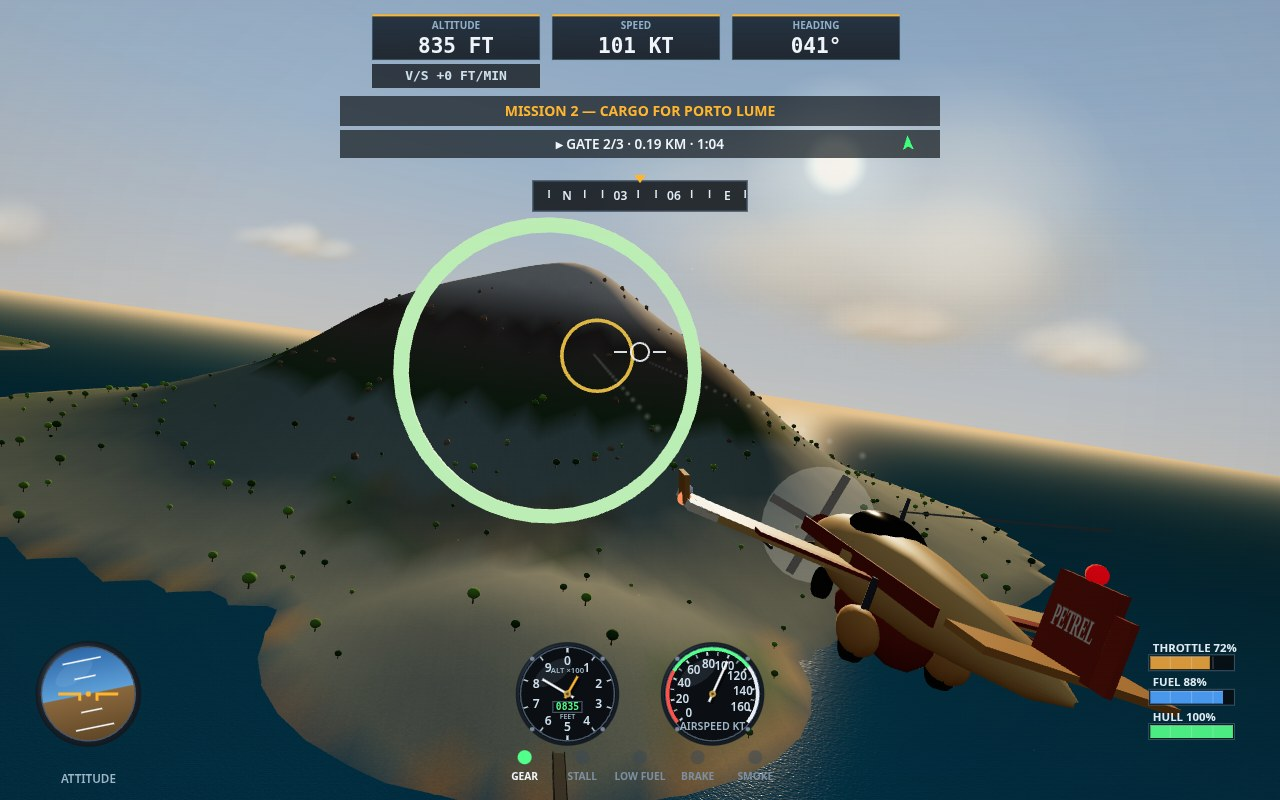
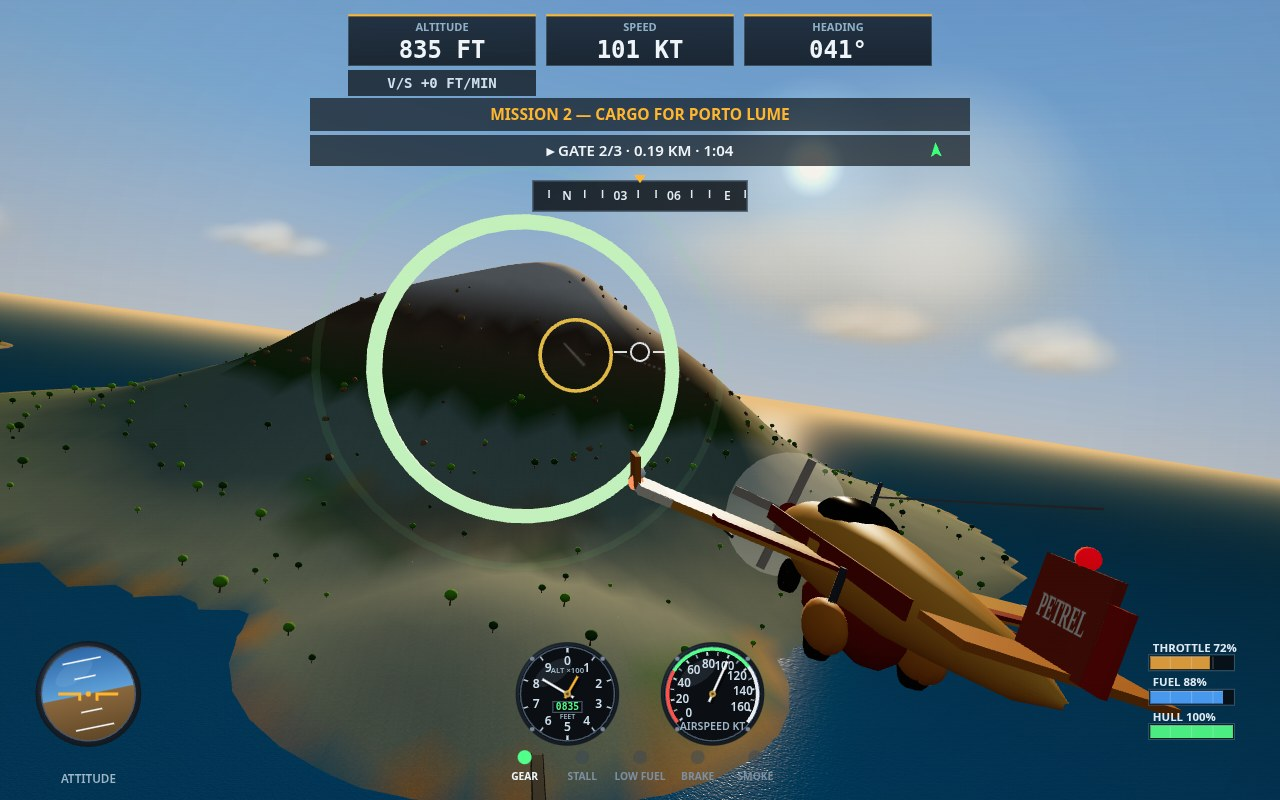
v17 thumbnail pass: win the contact sheet at 300px — a saturated grade across the whole palette (deeper sky blues, teal sea, stronger greens, warmer sand; Petrel paint deepened to a richer orange with a hotter tail; exposure 1.10 -> 1.16), cameras moved in close on the scenic route (cover re-posed o

diff --git a/game/src/hud.js b/game/src/hud.js
@@ -29,40 +29,47 @@ export function drawGradeVignette(ctx, width, height) {
   ctx.fillRect(0, 0, width, height);
 }
 
+// v17: the top readout cluster is scaled up a modest step (chips
+// 168x46 -> 188x52, value figures 21px -> 24px) so the numbers
+// carry further down the contact sheet's shrink — kept narrow
+// enough that the cluster still floats over sky, not world.
+const CHIP_W = 188;
+const CHIP_H = 52;
+
 export function drawHudDigits(ctx, plane, width, height) {
   const feet = Math.max(0, Math.round(plane.y * 3.281));
   const knots = Math.round(plane.speed * 1.944);
   const hdg = Math.round(headingDegrees(plane));
-  chip(ctx, width * 0.5 - 268, 14, 'ALTITUDE', `${feet} FT`);
-  chip(ctx, width * 0.5 - 88, 14, 'SPEED', `${knots} KT`);
-  chip(ctx, width * 0.5 + 92, 14, 'HEADING', `${String(hdg).padStart(3, '0')}°`);
+  chip(ctx, width * 0.5 - 292, 14, 'ALTITUDE', `${feet} FT`);
+  chip(ctx, width * 0.5 - 94, 14, 'SPEED', `${knots} KT`);
+  chip(ctx, width * 0.5 + 104, 14, 'HEADING', `${String(hdg).padStart(3, '0')}°`);
   const vs = Math.round(plane.vertical * 196.85);
   ctx.fillStyle = 'rgba(8,12,17,0.72)';
-  ctx.fillRect(width * 0.5 - 268, 64, 168, 24);
+  ctx.fillRect(width * 0.5 - 292, 70, CHIP_W, 26);
   ctx.fillStyle = vs < -700 ? PALETTE.lampRed : '#cfe0ec';
-  ctx.font = '700 13px ui-monospace, monospace';
+  ctx.font = '700 14px ui-monospace, monospace';
   ctx.textAlign = 'center';
-  ctx.fillText(`V/S ${vs >= 0 ? '+' : ''}${vs} FT/MIN`, width * 0.5 - 184, 80);
+  ctx.fillText(`V/S ${vs >= 0 ? '+' : ''}${vs} FT/MIN`, width * 0.5 - 198, 88);
 }
 
 function chip(ctx, x, y, label, value) {
-  const grad = ctx.createLinearGradient(x, y, x, y + 46);
+  const grad = ctx.createLinearGradient(x, y, x, y + CHIP_H);
   grad.addColorStop(0, 'rgba(24,36,50,0.88)');
   grad.addColorStop(1, 'rgba(8,12,17,0.82)');
   ctx.fillStyle = grad;
-  ctx.fillRect(x, y, 168, 46);
+  ctx.fillRect(x, y, CHIP_W, CHIP_H);
   ctx.fillStyle = PALETTE.lampAmber;
-  ctx.fillRect(x, y, 168, 2.4);
+  ctx.fillRect(x, y, CHIP_W, 2.4);
   ctx.strokeStyle = 'rgba(120,160,190,0.55)';
   ctx.lineWidth = 1.2;
-  ctx.strokeRect(x, y, 168, 46);
+  ctx.strokeRect(x, y, CHIP_W, CHIP_H);
   ctx.fillStyle = '#8fb0c6';
-  ctx.font = '700 10px system-ui, sans-serif';
+  ctx.font = '700 11px system-ui, sans-serif';
   ctx.textAlign = 'center';
-  ctx.fillText(label, x + 84, y + 15);
+  ctx.fillText(label, x + CHIP_W / 2, y + 17);
   ctx.fillStyle = PALETTE.ink;
-  ctx.font = '700 21px ui-monospace, monospace';
-  ctx.fillText(value, x + 84, y + 39);
+  ctx.font = '700 24px ui-monospace, monospace';
+  ctx.fillText(value, x + CHIP_W / 2, y + 44);
 }
 
 // Ease-out cubic for entrances: fast arrival, gentle landing.
@@ -86,22 +93,22 @@ export function drawMissionBanner(ctx, state, plane, width, entrance = 1) {
   ctx.globalAlpha = e;
   ctx.translate(0, (1 - e) * -16);
   ctx.fillStyle = 'rgba(8,12,17,0.66)';
-  ctx.fillRect(width * 0.5 - 300, 96, 600, 30);
+  ctx.fillRect(width * 0.5 - 330, 98, 660, 33);
   ctx.fillStyle = PALETTE.lampAmber;
-  ctx.font = '700 14px system-ui, sans-serif';
+  ctx.font = '700 15.5px system-ui, sans-serif';
   ctx.textAlign = 'center';
-  ctx.fillText(m.title, width * 0.5, 116);
+  ctx.fillText(m.title, width * 0.5, 120);
   const cue = objectiveCue(state, plane);
   const mins = Math.floor(state.elapsed / 60);
   const secs = String(Math.floor(state.elapsed % 60)).padStart(2, '0');
   ctx.fillStyle = 'rgba(8,12,17,0.66)';
-  ctx.fillRect(width * 0.5 - 300, 130, 600, 28);
+  ctx.fillRect(width * 0.5 - 330, 135, 660, 31);
   ctx.fillStyle = '#eef4f8';
-  ctx.font = '600 13.5px system-ui, sans-serif';
-  ctx.fillText(`▸ ${cue.label} · ${(cue.dist / 1000).toFixed(2)} KM · ${mins}:${secs}`, width * 0.5, 149);
-  const ax = width * 0.5 + 268;
+  ctx.font = '600 15px system-ui, sans-serif';
+  ctx.fillText(`▸ ${cue.label} · ${(cue.dist / 1000).toFixed(2)} KM · ${mins}:${secs}`, width * 0.5, 156);
+  const ax = width * 0.5 + 296;
   ctx.save();
-  ctx.translate(ax, 144);
+  ctx.translate(ax, 151);
   ctx.rotate((cue.turn * Math.PI) / 180);
   ctx.fillStyle = PALETTE.ringNext;
   ctx.beginPath();

diff --git a/game/src/shots.js b/game/src/shots.js
@@ -19,6 +19,12 @@ export const SHOT_NAMES = ['cover', 'approach', 'cargo', 'finale'];
 //     the Meridian Field valley on short final (FINALE).
 // Every pose sits on its mission's real line, so the banner, the
 // cue and the dials all read true from the pose itself.
+//
+// The v17 thumbnail pass re-stations the cameras on that route:
+// the judge only ever sees these frames small, so the Petrel is
+// framed big (a third to a half of the picture), the horizon
+// rides high, and the cover flies the last stretch to its gate
+// so the hoop itself becomes the poster's frame.
 
 const SCENIC = {
   cargoGate: 1, // mission-1 ring the cargo station flies at
@@ -27,9 +33,12 @@ const SCENIC = {
 export function applyShotScene(game, name) {
   game.shotCam = null;
   game.juiceSeed = null;
-  const QUARTER = { side: 6.5, up: 2.4, aim: 42, back: 17, aimSide: -10 };
-  const QUARTER_PORT = { side: -6.5, up: 3.3, aim: 46 };
-  const QUARTER_FINALE = { side: 5.5, up: 2.8, aim: 34, back: 15, aimSide: -5 };
+  // v17 thumbnail pass: the cameras move in close — the Petrel
+  // fills a third to a half of the frame instead of a fifth, and
+  // the horizon rides higher so flat sky stops eating the picture.
+  const HERO = { side: 4.6, up: 1.5, aim: 34, back: 8.5, aimSide: -4 };
+  const QUARTER_PORT = { side: -5.8, up: 2.9, aim: 44, back: 10.5, aimSide: 2 };
+  const QUARTER_FINALE = { side: 3.6, up: 2.1, aim: 30, back: 9, aimSide: -3 };
   if (name === 'approach') {
     // Leg 3: the waterfront final over the rooftops of Porto Lume.
     // (v16 scouting tried starting further out; the town shrank to
@@ -83,19 +92,21 @@ export function applyShotScene(game, name) {
   } else {
     // Leg 1: the strait gate — the second gate of the ring run,
     // the bridge pylon sliding under the wing, the glitter lane
-    // and the balloon ahead. (v16 scouting flew two challengers:
-    // the third-gate station, which pushed the balloon out of
-    // the top of the frame, and a low bridge reach, which lost
-    // the green gate altogether and still only saw the span from
-    // above. Neither beat this frame, so it stands.)
+    // and the balloon ahead. (v17 scouting flew a front-quarter
+    // camera waiting ahead of the line: it cropped the nose and
+    // traded the gate for a plain hillside, so the hero went the
+    // other way — closer to the gate, not in front of it.)
     startSortie(game, 0);
     const plane = game.plane;
     const target = game.missionState.mission.rings[1];
-    plane.x = target.x - Math.sin(target.heading * Math.PI / 180) * 175;
-    plane.z = target.z + Math.cos(target.heading * Math.PI / 180) * 175;
+    // v17 hero framing: the pose flies the last stretch to the
+    // gate, so the hoop ahead is huge in the lens with the Petrel
+    // big in the foreground — a poster, not a survey view.
+    plane.x = target.x - Math.sin(target.heading * Math.PI / 180) * 80;
+    plane.z = target.z + Math.cos(target.heading * Math.PI / 180) * 80;
     const rad = (target.heading * Math.PI) / 180;
-    plane.x -= Math.cos(rad) * 30;
-    plane.z -= Math.sin(rad) * 30;
+    plane.x -= Math.cos(rad) * 18;
+    plane.z -= Math.sin(rad) * 18;
     plane.y = target.y + 4;
     plane.heading = ((target.heading + 3) * Math.PI) / 180;
     plane.speed = 54; plane.throttle = 0.78;
@@ -106,7 +117,7 @@ export function applyShotScene(game, name) {
     game.missionState.ringsPassed = 1;
     game.missionState.elapsed = 47;
     game.cameraMode = 'chase';
-    game.shotCam = QUARTER;
+    game.shotCam = HERO;
   }
   game.phase = PHASES.FLY;
   return game;

diff --git a/game/src/config.js b/game/src/config.js
@@ -40,41 +40,45 @@ export const AIRCRAFT = {
 };
 
 export const PALETTE = {
-  skyTop: '#26457e',
-  skyMid: '#7e9cc0',
-  skyLow: '#f8c47c',
-  sun: '#ffd9a3',
+  // v17 thumbnail grade: every hue a clear saturation step richer
+  // than the v15 pastel pass — deeper sky blues, a more teal sea,
+  // stronger greens and a warmer sand — so the world still holds
+  // its colour when the judge's contact sheet shrinks it small.
+  skyTop: '#1d4196',
+  skyMid: '#5b8cc9',
+  skyLow: '#f9b95c',
+  sun: '#ffc46b',
   sunCore: '#fff3da',
-  sea: '#1a637f',
-  seaDeep: '#0f435c',
-  seaShallow: '#4599a4',
-  seaShelf: '#2f869e',
-  seaFloor: '#145a76',
-  sand: '#eecf92',
-  sandDry: '#f4d99b',
-  sandWet: '#d3af7d',
+  sea: '#0e6b96',
+  seaDeep: '#083f63',
+  seaShallow: '#25a7bd',
+  seaShelf: '#1d90ad',
+  seaFloor: '#0d5f83',
+  sand: '#f0c268',
+  sandDry: '#f6cf7d',
+  sandWet: '#d9a55e',
   foam: '#faf0da',
-  grassLow: '#8ba85e',
-  grassHigh: '#527a3e',
-  scrub: '#648347',
-  cropWheat: '#c8ad55',
-  cropYoung: '#7cab4a',
-  cropDeep: '#4f7d38',
+  grassLow: '#79ac3f',
+  grassHigh: '#3e7a28',
+  scrub: '#55852f',
+  cropWheat: '#d9b23a',
+  cropYoung: '#6cb32f',
+  cropDeep: '#3f7d24',
   cropPlough: '#8a6849',
   cropFallow: '#b5a26e',
-  hedge: '#33512e',
+  hedge: '#2a5c26',
   dirt: '#b3986a',
-  haze: '#d8c39a',
-  treeDark: '#2e5d33',
-  treeLight: '#4c8148',
+  haze: '#dfc493',
+  treeDark: '#256b2c',
+  treeLight: '#3f9429',
   trunk: '#6d5942',
   trunkShade: '#463727',
-  leafDark: '#27512a',
-  leafMid: '#4b8a38',
-  leafLit: '#93c248',
-  leafBright: '#cfe06a',
-  rock: '#96826d',
-  rockDark: '#71604e',
+  leafDark: '#1e5224',
+  leafMid: '#3f9429',
+  leafLit: '#8ccf2e',
+  leafBright: '#d8ec4f',
+  rock: '#9c7c58',
+  rockDark: '#6e5638',
   snow: '#fdf1dc',
   snowShade: '#e3cdb4',
   runway: '#4a4d52',

diff --git a/game/src/aircraft-art.js b/game/src/aircraft-art.js
@@ -8,10 +8,13 @@ import * as THREE from 'three';
 import { PALETTE } from './config.js';
 import { headingDegrees } from './flight-model.js';
 
-const APRICOT = 0xeab96f;
-const APRICOT_DEEP = 0xd99a4e;
-const UMBER = 0xa83c1e;
-const TAIL_RED = 0xc4502e;
+// v17: the Petrel's paint deepened a step — a richer orange body
+// and a hotter tail, so the aeroplane pops against sea and sky at
+// contact-sheet size instead of blending into the golden terrain.
+const APRICOT = 0xf0a83e;
+const APRICOT_DEEP = 0xe08a26;
+const UMBER = 0xb03412;
+const TAIL_RED = 0xd23c14;
 const CREAM = 0xf6ead2;
 
 function petrelFinTexture() {

diff --git a/game/src/renderer-3d.js b/game/src/renderer-3d.js
@@ -956,7 +956,9 @@ export function buildClouds(group) {
 export function createWorld(canvas) {
   const renderer = new THREE.WebGLRenderer({ canvas, antialias: true, powerPreference: 'high-performance' });
   renderer.toneMapping = THREE.ACESFilmicToneMapping;
-  renderer.toneMappingExposure = 1.1;
+  // v17: a small exposure lift on top of the saturated palette —
+  // contrast the thumbnail can feel, highlights still held by ACES.
+  renderer.toneMappingExposure = 1.16;
   renderer.outputColorSpace = THREE.SRGBColorSpace;
   renderer.shadowMap.enabled = true;
   renderer.shadowMap.type = THREE.PCFSoftShadowMap;
